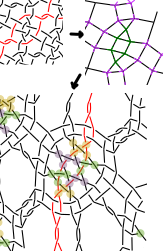
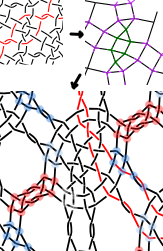
Les colors, nets intro

Changed region(s): [[0.0, 0.3625, 1.0, 1.0]]

diff --git a/index.md b/index.md
@@ -16,10 +16,10 @@ D-BL offers a roof to a suite of projects and applications related to bobbin lac
 **GroundForge** generates thread diagrams from pair diagrams (and vise versa) 
   
 ![](images/thread-to-pairs-tothreads.png?align=right)
+  * Two basic [nets](https://d-bl.github.io/GroundForge/nets)
+    generate dozens of thread diagrams by combining mirrored versions of a single stitch of your choice.
   * Mix up to 4 different [snowflakes](https://d-bl.github.io/GroundForge/mix4snow) with your own choice of stitches for new grounds.
-  * Play with stitches
-    in [simple nets](https://d-bl.github.io/GroundForge/nets),
-    wobbling [Rose ground units](https://d-bl.github.io/MAE-gf/docs/droste#wobble),
+  * Play with stitches on wobbling [Rose ground units](https://d-bl.github.io/MAE-gf/docs/droste#wobble),
     [Valenciennes/Paris](https://d-bl.github.io/gw-lace-to-gf/#a7-h7g11--valenciennes) or
     [snow in Paris](/GroundForge-help/Binche).
   * Browse galleries with predefined patterns (traditional and experimental) and play with your own choice of stitches:
